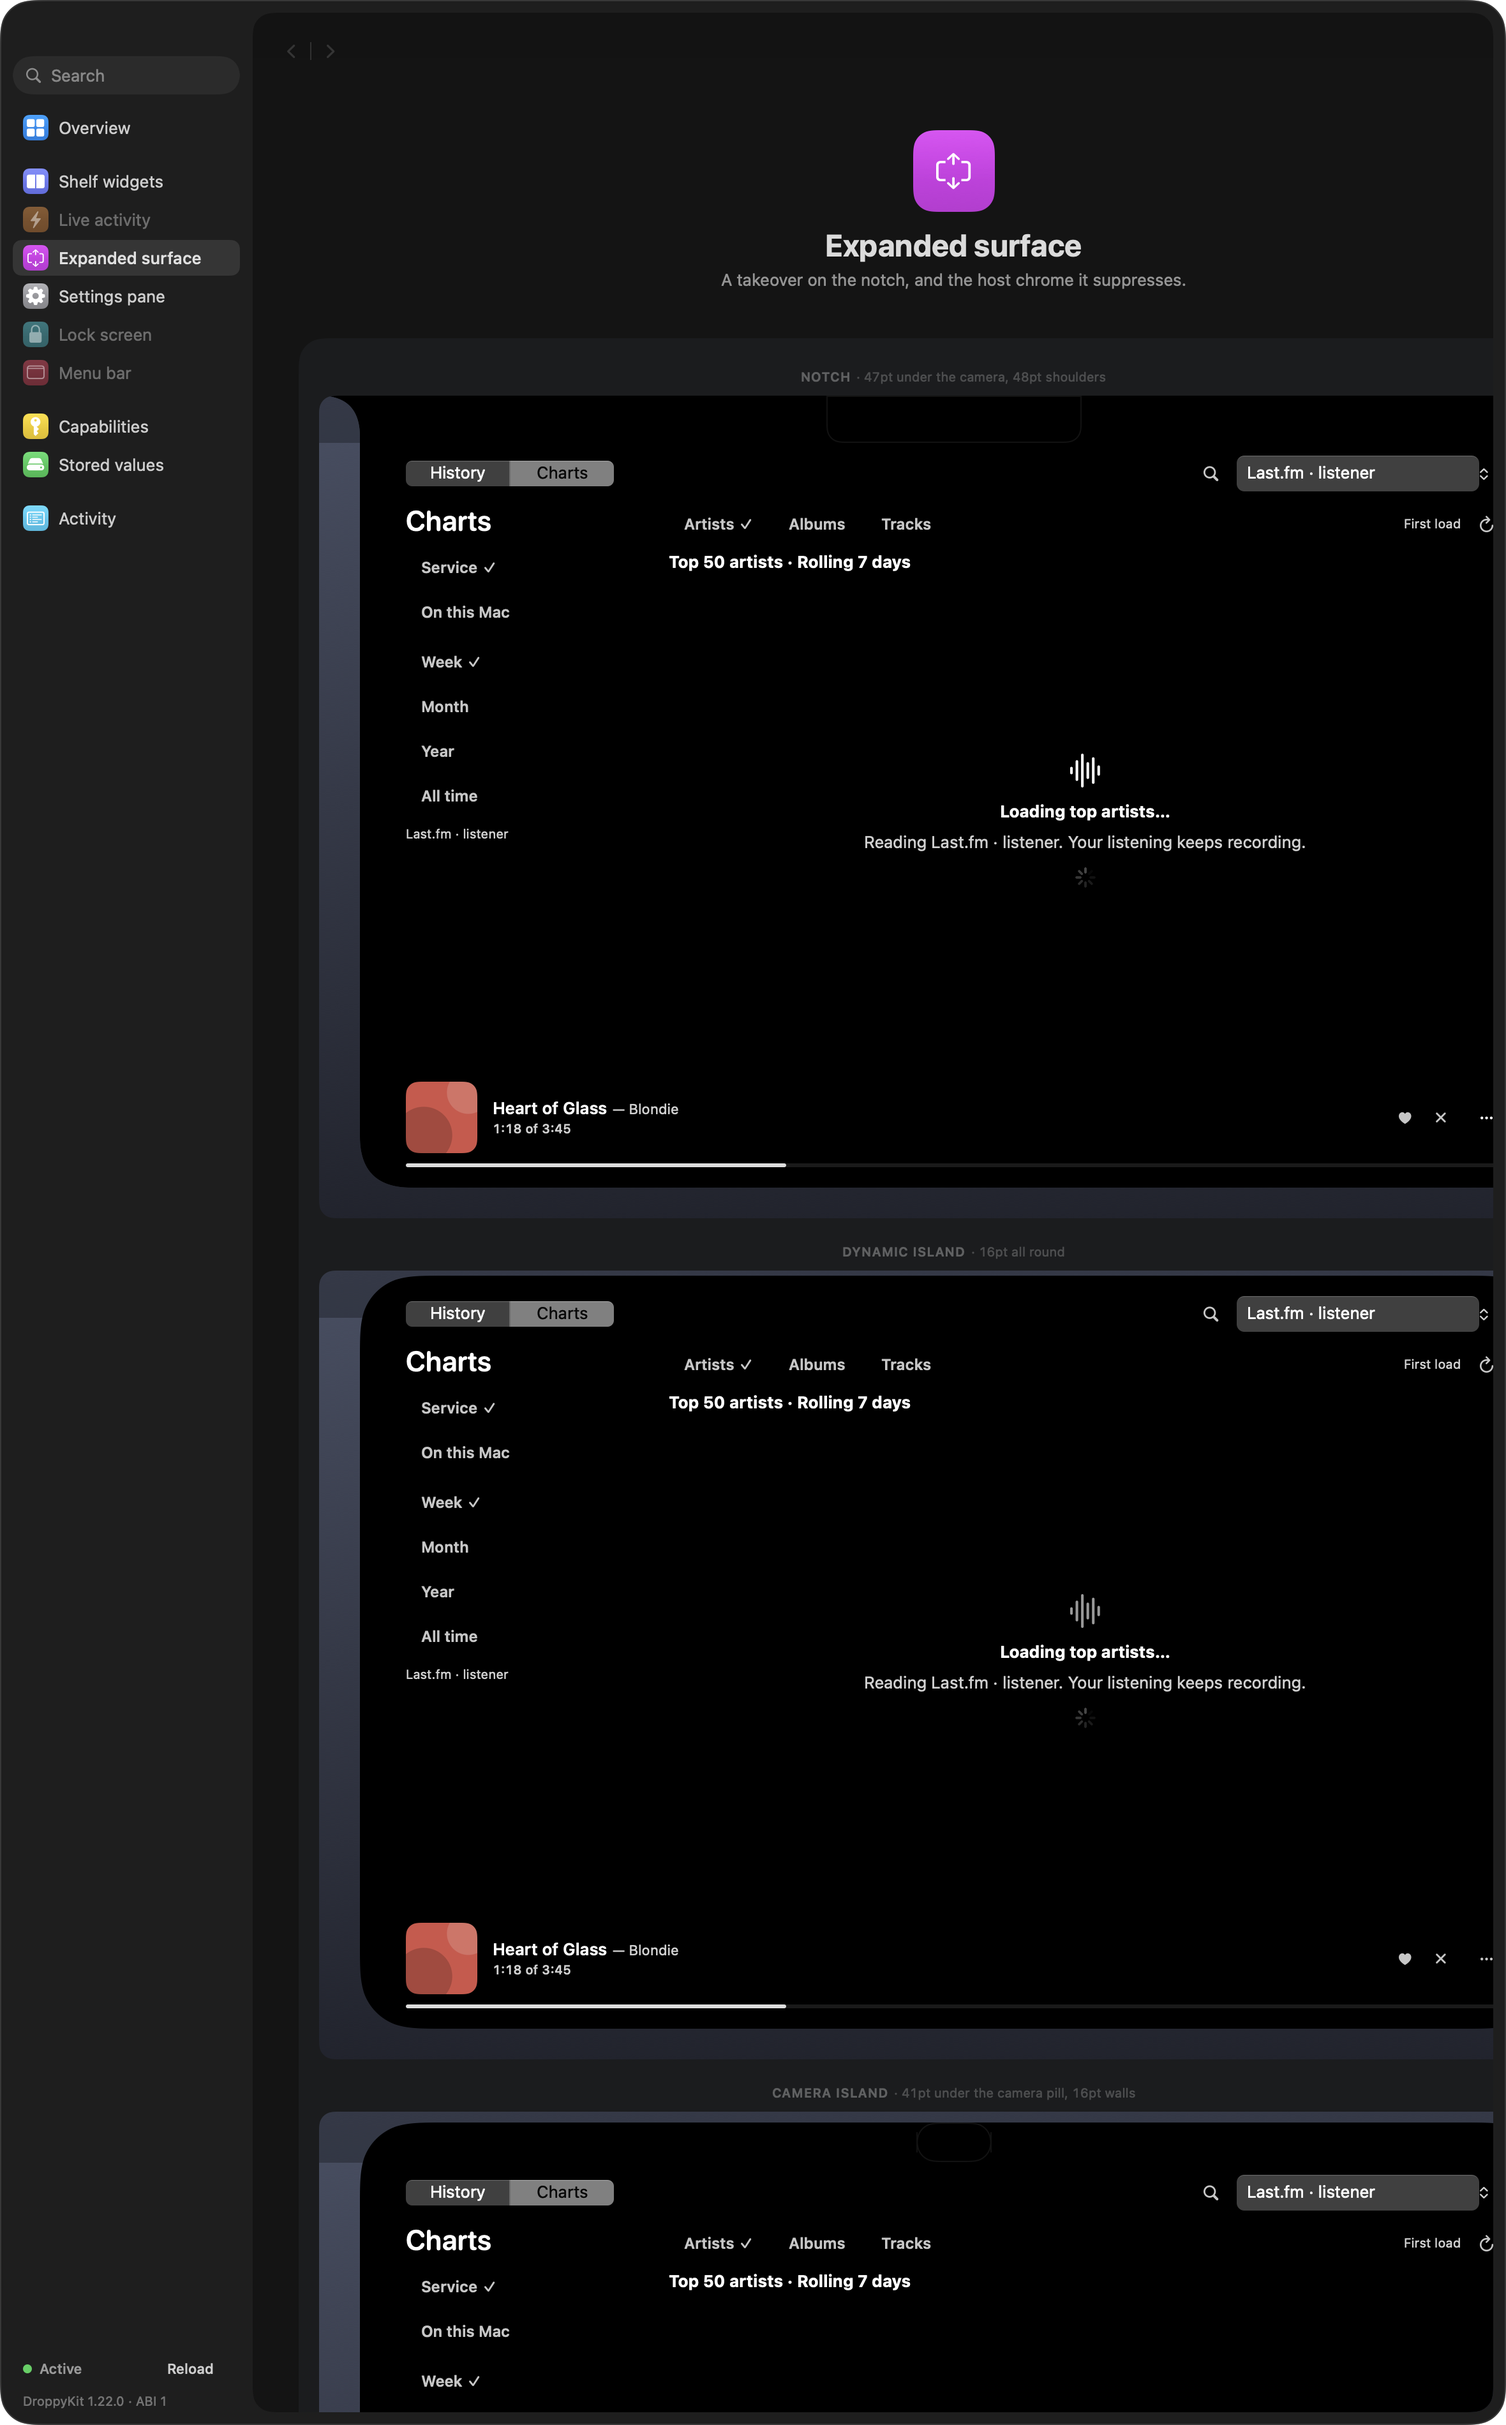
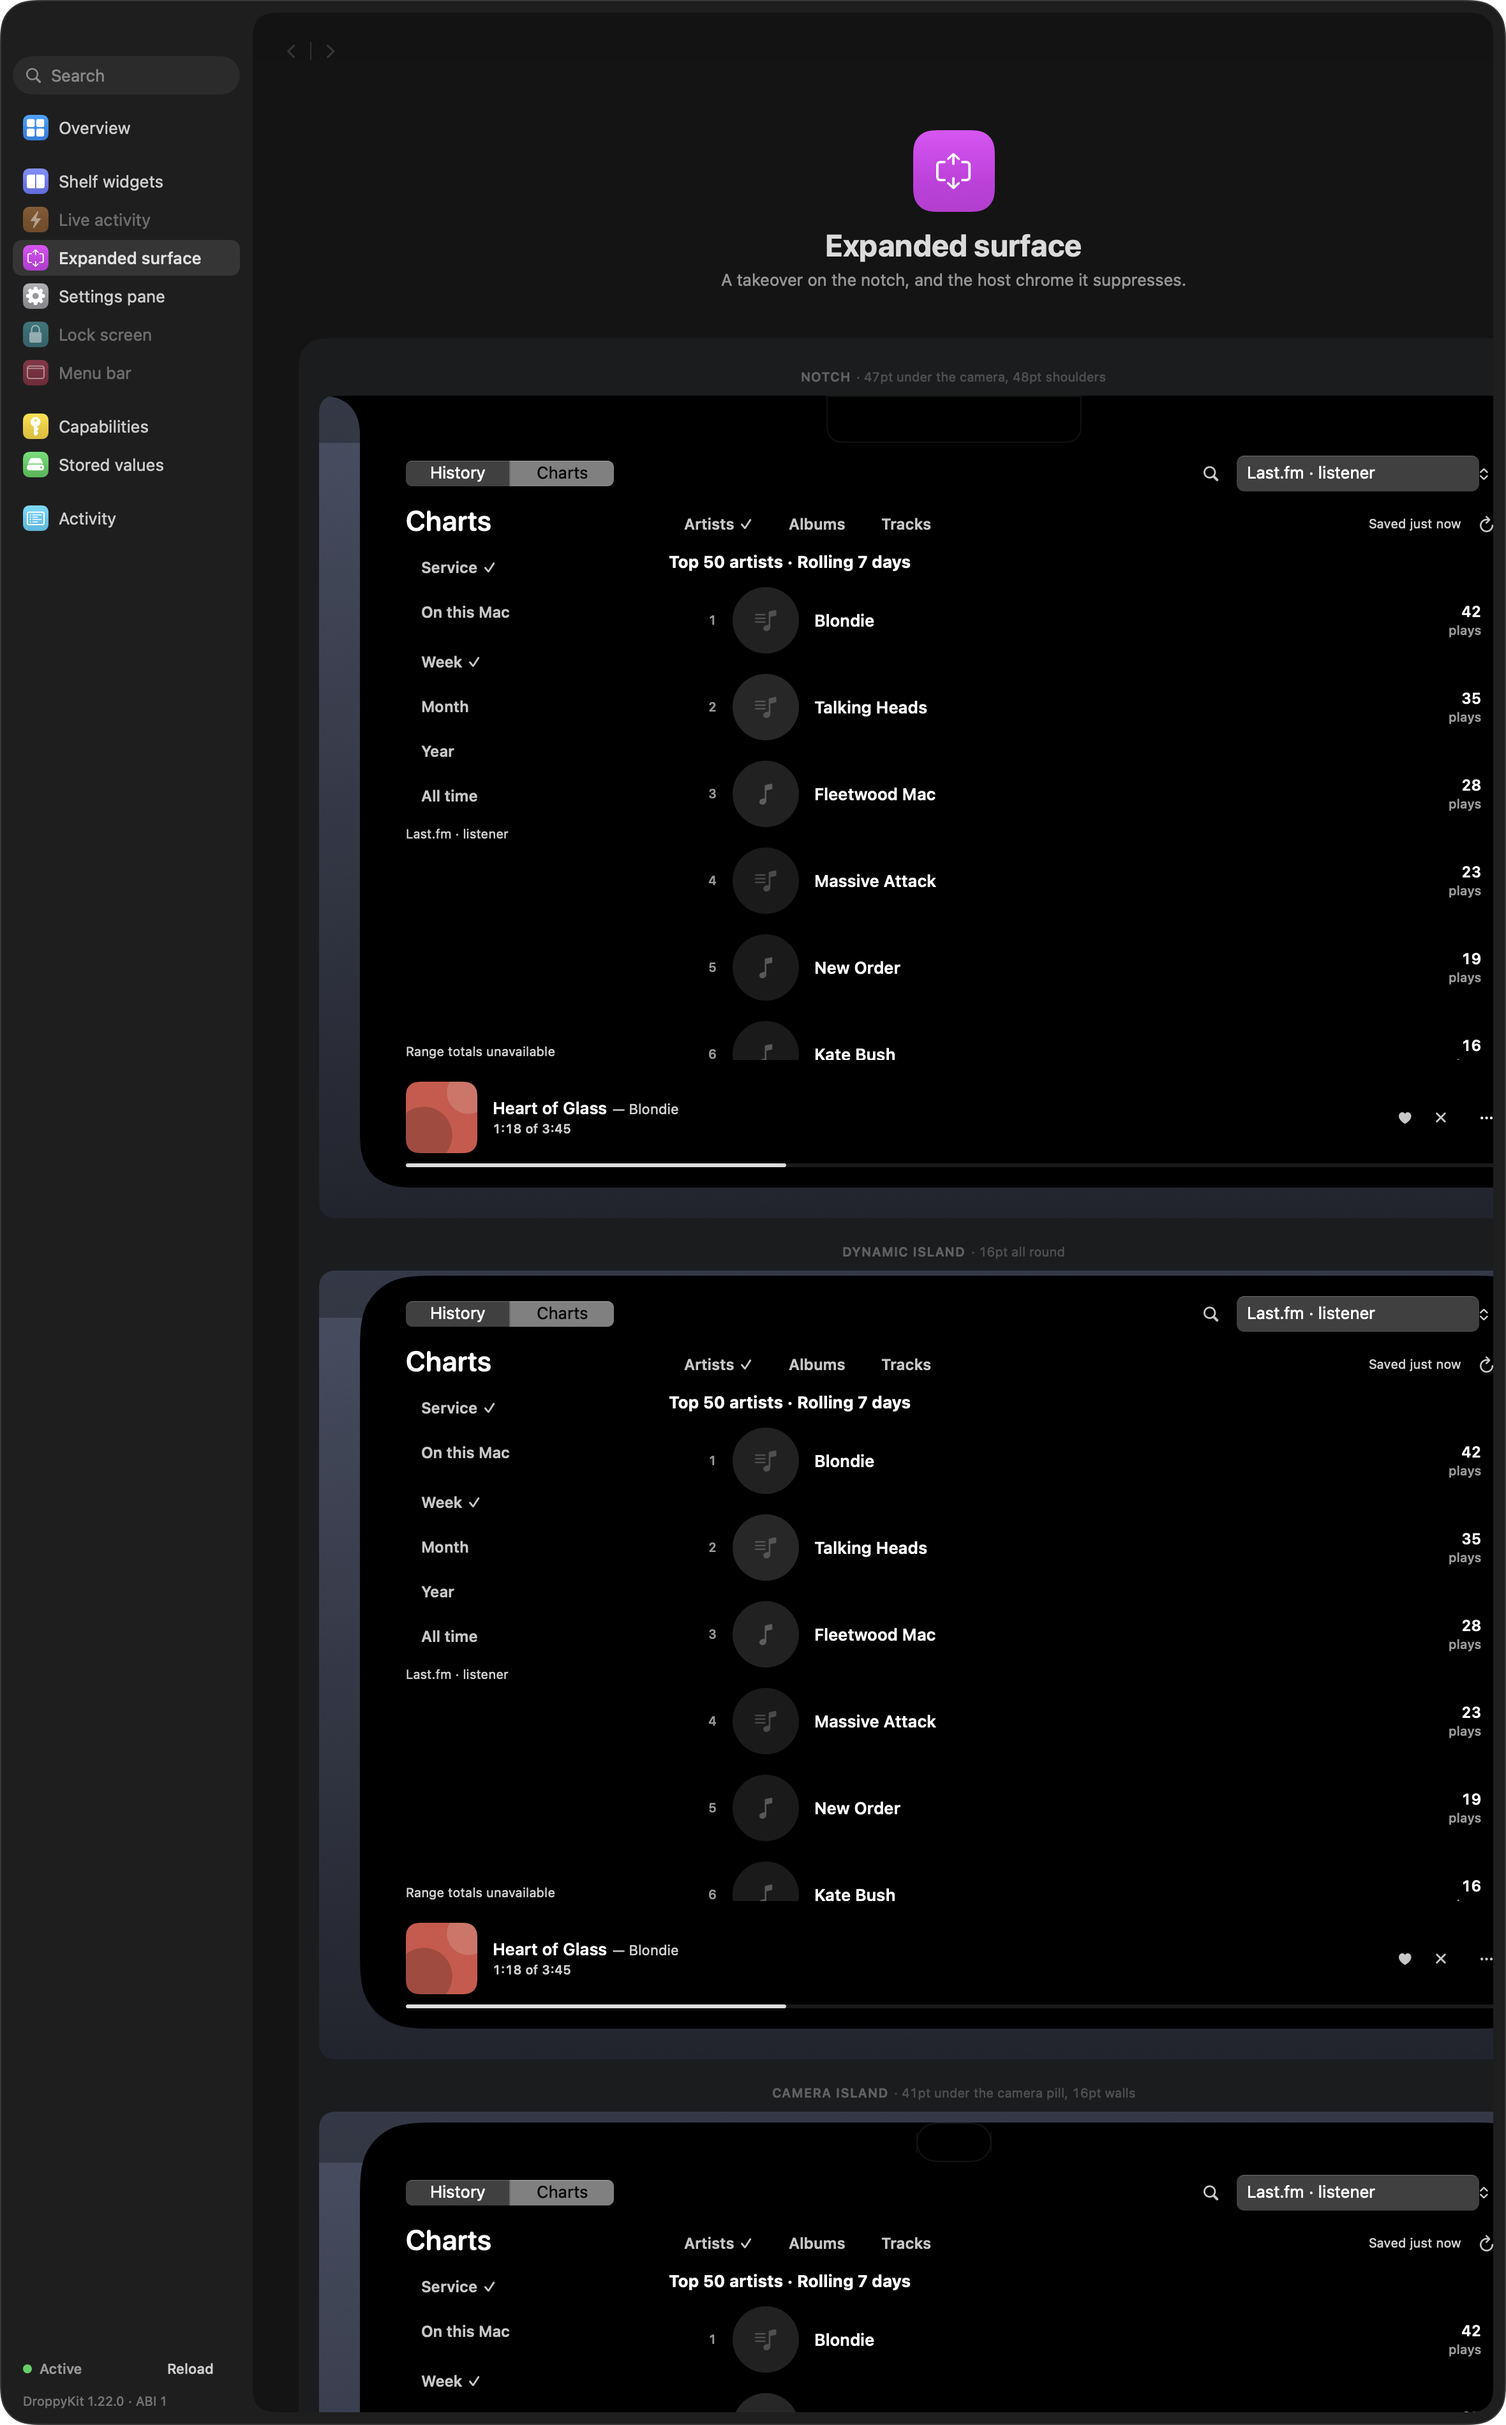
docs: record issue 85 round 1 gate receipt (#85)

diff --git a/docs/reports/issue-85-catalogue-search.md b/docs/reports/issue-85-catalogue-search.md
@@ -2,7 +2,7 @@
 
 - Base: `aa6bdeb257b24dd94b33b8a5f8295be5affff908` (`feat: build history navigation (#112)`)
 - Branch: `feat/catalogue-search-85`
-- Code head: the commit for the F1–F5 fixes (the gate receipt is added in the follow-up evidence commit).
+- Code head: `0555b3466fbaa2eaa0144fb3fe82e1393e41a16e` (the gate receipt below is for this head; later commits are documentation and evidence only).
 - State: implementation, composition tests, harness fixtures and this report. The receipt-backed gate passed; the Gate section records the receipt and clean-tree state.
 - Scope: ticket 9 of the approved breakdown. This report does not close #76 and makes no Store or milestone-complete claim.
 
@@ -94,12 +94,16 @@ Command:
 /Users/ranokay/.agents/tools/run gate_run -- mise run gate
 ```
 
-- Result and receipt: the final gate runs at the F1–F5 code head; its receipt and exit code are recorded in the follow-up evidence commit.
-- `hk check --all`: SwiftFormat, SwiftLint and jactionlint clean.
-- `swift test --package-path Tests`: 676 tests in 102 suites.
+- Result and receipt: exit `0`, frozen gate `true`, clean before and after, at head `0555b3466fbaa2eaa0144fb3fe82e1393e41a16e`.
+  - Receipt: `/Users/ranokay/.local/state/agent-tools/gates/20261104T102852Z-dac07409cdbf.json`
+  - Log: `/Users/ranokay/.local/state/agent-tools/gates/20261104T102852Z-dac07409cdbf.log`
+  - Duration: 995.6 seconds.
+  - `git_before` and `git_after` both report head `0555b34…`, empty porcelain status and the same tracked-content hash.
+- `hk check --all`: SwiftFormat, SwiftLint and jactionlint clean; 0 SwiftLint violations in 306 files.
+- `swift test --package-path Tests`: 676 tests in 102 suites; 51 media tests in 7 suites.
 - `droppykit build`: universal droplet, x86_64 + arm64, `kit.minAPI` 1.19.0 covers every call.
 - `droppykit validate`: `Ready to submit`.
-- New harness states: `search-refusal` and `search-settings`; `loved-held` is an interactive fixture for the early-Return walk.
+- New harness states: `search-refusal` and `search-settings`; `loved-held` is the interactive early-Return fixture.
 - Artifacts: `docs/reports/issue-85/search-settings.png`, `search-refusal.png`, `search-settings.json` and `search-refusal.json` under `docs/reports/issue-85/reports/`; the gate's charts surface is `charts-search-button.png`.
 
 ## Native observations
